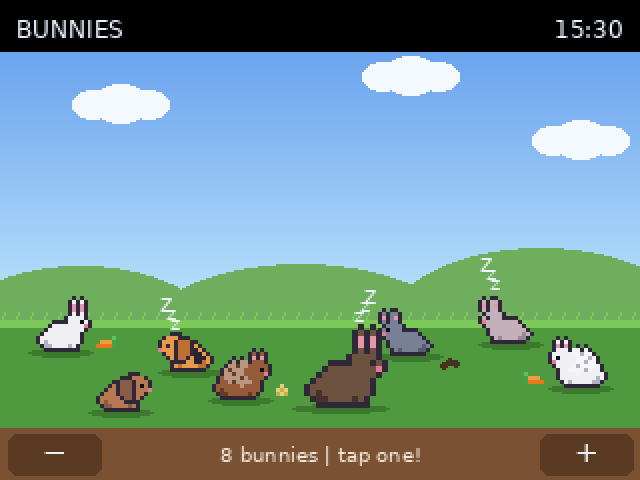
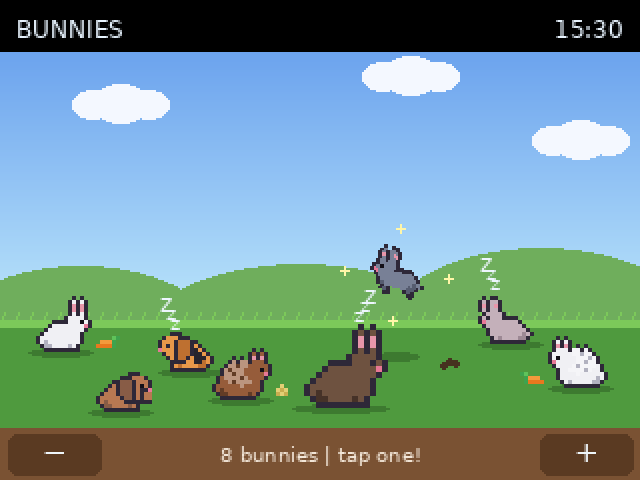
Bunny saver: grooming and binky animations
Grooming: a front paw raised to the face, alternating between under the
chin and rubbing over the nose with the eyes shut. Binky: a high leap
that tilts, twists round at the top and lands nose-down, with sparkles;
half the time the bunny lands facing the other way.

Claude-Session: https://claude.ai/code/session_01XeYQ8PF2srL9M1PCKTNy7Z

Changed region(s): [[0.5625, 0.5, 0.6875, 0.75], [0.6875, 0.5625, 0.7188, 0.5938], [0.2188, 0.8125, 0.25, 0.8438]]

diff --git a/panel_app.py b/panel_app.py
@@ -961,6 +961,27 @@ def eating_pose(rows):
 def sleeping_pose(rows):
     """Eyes closed (a dark line)."""
     return [r.replace('e', 'o') for r in rows]
+
+
+def grooming_pose(rows, raised=False):
+    """A front paw lifted to the face: under the chin, or (raised) rubbing over the nose with
+    the eyes shut. The paw gets its own outline so it shows against the fur."""
+    grid = [list(r) for r in rows]
+    ny = next(i for i, r in enumerate(rows) if 'n' in r)
+    nx = rows[ny].index('n')
+    py = ny if raised else ny + 1
+    paw = {(py, nx-1), (py, nx), (py+1, nx-1), (py+1, nx)}
+    for y in range(py-1, py+3):
+        for x in range(nx-2, nx+2):
+            inside = 0 <= y < len(grid) and 0 <= x < len(grid[0])
+            if inside and (y, x) not in paw and (y, x) != (ny, nx) and grid[y][x] in '.wgmf':
+                grid[y][x] = 'o'
+    for y, x in paw:
+        grid[y][x] = 'w'
+    if raised:
+        grid = [['o' if k == 'e' else k for k in r] for r in grid]
+    return [''.join(r) for r in grid]
+
 # Breeds: (shape, scale, weight, coats). Flemish giants are drawn 1.5x and come in the
 # solid colours the breed is known for.
 BUNNY_BREEDS = {
@@ -993,10 +1014,11 @@ def bunny_look(shape='standard', coat='white', scale=2):
 
 
 def bunny_poses(shape='standard', coat='white', scale=2):
-    """{'sit', 'hop' (list), 'eat', 'sleep'} frames for one breed/coat, trimmed of shared
-    empty rows on top so the tap target hugs the visible bunny."""
+    """{'sit', 'hop' (list), 'eat', 'sleep', 'groom', 'groom2'} frames for one breed/coat,
+    trimmed of shared empty rows on top so the tap target hugs the visible bunny."""
     sit, hop = BUNNY_SHAPES[shape]
-    templates = {'sit': sit, 'hop': hop, 'eat': eating_pose(sit), 'sleep': sleeping_pose(sit)}
+    templates = {'sit': sit, 'hop': hop, 'eat': eating_pose(sit), 'sleep': sleeping_pose(sit),
+                 'groom': grooming_pose(sit), 'groom2': grooming_pose(sit, raised=True)}
     frames = {name: pixel_sprite(rows, scale, coat) for name, rows in templates.items()}
     top = min(f.getbbox()[1] for f in frames.values())
     frames = {name: f.crop((0, top, f.width, f.height)) for name, f in frames.items()}
@@ -1130,7 +1152,8 @@ class Bunny:
         self.food = None  # 'carrot' or 'hay' while eating.
 
     ACTIVITIES = (  # (name, chance each time a rest ends, duration range in seconds)
-        ('eat', .10, (4., 8.)), ('sleep', .05, (7., 15.)), ('poop', .04, (.8, .8)))
+        ('eat', .10, (4., 8.)), ('sleep', .05, (7., 15.)), ('poop', .04, (.8, .8)),
+        ('groom', .07, (3., 6.)), ('binky', .05, (.9, .9)))
 
     def jump(self, now, big=False):
         self.activity = self.food = None  # A tap wakes a sleeper / interrupts a snack.
@@ -1142,7 +1165,7 @@ class Bunny:
             self.heart_until = now + 1.2
 
     def start_activity(self, now):
-        """Maybe begin eating, sleeping or a quick poop instead of the next hop."""
+        """Maybe eat, sleep, poop, groom or binky instead of the next hop."""
         roll = self.rng.random()
         for name, chance, (shortest, longest) in self.ACTIVITIES:
             if roll < chance:
@@ -1157,8 +1180,13 @@ class Bunny:
         """Move/animate; returns 'poop' once when droppings should appear."""
         if self.activity is not None:
             if now >= self.activity_until:
+                if self.activity == 'binky' and self.rng.random() < .5:
+                    self.direction *= -1  # Lands facing the other way half the time.
                 self.activity = self.food = None
                 self.rest_until = now + self.rng.uniform(.3, 1.)
+            elif self.activity == 'binky':  # A short leap forward while twisting.
+                self.x += self.direction*speed*dt*.8
+                self.wrap()
             return None
         if self.hop_start is not None:
             self.x += self.direction*speed*dt*(.75 if self.breed == 'giant' else 1)
@@ -1172,14 +1200,27 @@ class Bunny:
             if started:
                 return 'poop' if started == 'poop' else None
             self.jump(now)
-        # Wrap just past the edge so nearly every bunny is visible at any moment.
+        self.wrap()
+        return None
+
+    def wrap(self):
+        """Wrap just past the edge so nearly every bunny is visible at any moment."""
         if self.x < -self.half-2:
             self.x, self.ground = W+self.half, bunny_lane(self.rng)
         elif self.x > W+self.half+2:
             self.x, self.ground = -self.half, bunny_lane(self.rng)
-        return None
+
+    def binky_phase(self, now):
+        """0..1 through a binky, or None when not doing one."""
+        if self.activity != 'binky':
+            return None
+        span = max(.1, self.activity_until - self.activity_start)
+        return max(0., min(1., (now - self.activity_start) / span))
 
     def lift(self, now):
+        phase = self.binky_phase(now)
+        if phase is not None:  # A binky leaps well above a normal hop.
+            return 4*28*(1.2 if self.breed == 'giant' else 1)*phase*(1-phase)
         if self.hop_start is None:
             return 0
         phase = min(1, (now-self.hop_start)/self.hop_length)
@@ -1227,10 +1268,10 @@ class BunnySaver(Saver):
 
     def poses_for(self, look):
         if look not in self.looks:
-            if look is None:  # Custom sprite: frame 0 rests (and eats/sleeps), the rest hop.
+            if look is None:  # Custom sprite: frame 0 rests (eats, sleeps, grooms), the rest hop.
                 frames = self.custom
-                right = {'sit': frames[0], 'hop': frames[1:] or frames[:1],
-                         'eat': frames[0], 'sleep': frames[0]}
+                right = {'sit': frames[0], 'hop': frames[1:] or frames[:1], 'eat': frames[0],
+                         'sleep': frames[0], 'groom': frames[0], 'groom2': frames[0]}
             else:
                 right = bunny_poses(*look)
             self.looks[look] = (right, mirrored_poses(right))
@@ -1330,13 +1371,23 @@ class BunnySaver(Saver):
                                          bunny.ground - self.rng.uniform(0, 2), now])
             right, left = self.poses_for(bunny.look)
             poses = right if bunny.direction > 0 else left
-            if bunny.hop_start is not None:
+            binky = bunny.binky_phase(now)
+            if binky is not None:
+                # Twist mid-air: the body tilts up, flicks round (mirrored) at the top, then
+                # tilts down for the landing.
+                twisted = .35 <= binky < .65
+                frame = ((left if bunny.direction > 0 else right) if twisted else poses)['hop'][0]
+                frame = frame.rotate(22*math.cos(binky*math.pi)*bunny.direction, Image.NEAREST,
+                                     expand=True)
+            elif bunny.hop_start is not None:
                 hops = poses['hop']
                 frame = hops[int((now-bunny.hop_start)*10) % len(hops)]
             elif bunny.activity == 'eat':
                 frame = poses['eat'] if int(now*4) % 2 else poses['sit']  # Nibbling.
             elif bunny.activity == 'sleep':
                 frame = poses['sleep']
+            elif bunny.activity == 'groom':  # Paw strokes over the face.
+                frame = poses['groom2'] if int(now*5) % 2 else poses['groom']
             else:
                 frame = poses['sit']
             lift = bunny.lift(now)
@@ -1351,6 +1402,14 @@ class BunnySaver(Saver):
                     zx = bunny.x + bunny.direction*(bunny.half*.4 + phase*8)
                     zy = bunny.ground - frame.height - 4 - phase*16
                     d.text((zx, zy), 'z', font=TINY if phase < .5 else SMALL, fill='#eef6ff', anchor='mm')
+            elif binky is not None and .15 < binky < .85:
+                top = bunny.ground - frame.height - lift
+                for k in range(4):  # Sparkles of joy around the leap.
+                    angle = k*math.pi/2 + now*5
+                    sx = bunny.x + math.cos(angle)*(frame.width*.6 + 3)
+                    sy = top + frame.height/2 + math.sin(angle)*(frame.height*.6 + 3)
+                    d.line((sx-2, sy, sx+2, sy), fill='#fff6a8')
+                    d.line((sx, sy-2, sx, sy+2), fill='#fff6a8')
             if now < bunny.heart_until:
                 hx, hy = bunny.x, bunny.ground-frame.height-lift-8-(1.2-(bunny.heart_until-now))*12
                 d.text((hx, hy), '♥', font=FONT, fill='#ff5a7a', anchor='mm')

diff --git a/tests/test_panel_app.py b/tests/test_panel_app.py
@@ -810,6 +810,10 @@ class BunnyLifeTest(unittest.TestCase):
             poses = app.bunny_poses(shape, 'castor')
             self.assertNotEqual(poses['eat'].tobytes(), poses['sit'].tobytes(), shape)
             self.assertNotEqual(poses['sleep'].tobytes(), poses['sit'].tobytes(), shape)
+            for groom in ('groom', 'groom2'):  # The paw shows in both grooming frames.
+                self.assertNotEqual(poses[groom].tobytes(), poses['sit'].tobytes(), shape)
+                self.assertEqual(poses[groom].size, poses['sit'].size)
+            self.assertNotEqual(poses['groom'].tobytes(), poses['groom2'].tobytes(), shape)
             self.assertEqual(poses['eat'].size, poses['sit'].size)
         for breed in ('lionhead', 'rex'):
             self.assertIn(breed, app.BUNNY_BREEDS)
@@ -829,7 +833,7 @@ class BunnyLifeTest(unittest.TestCase):
                     seen.add(bunny.activity)
                     if bunny.activity == 'eat':
                         self.assertIn(bunny.food, ('carrot', 'hay'))
-        self.assertEqual(seen, {'eat', 'sleep', 'poop'})
+        self.assertEqual(seen, {'eat', 'sleep', 'poop', 'groom', 'binky'})
         self.assertTrue(saver.pellets)
         saver.render(200, datetime.now(), ())
         self.assertFalse(any(200 - born >= 45 for _, _, born in saver.pellets))  # Faded away.
@@ -843,6 +847,24 @@ class BunnyLifeTest(unittest.TestCase):
         self.assertIsNone(bunny.activity)
         self.assertIsNotNone(bunny.hop_start)
 
+    def test_binky_leaps_twists_and_can_be_tapped(self):
+        saver = app.BunnySaver({**app.DEFAULT_OPTIONS, 'bunny_count': 1}, lambda n: '', seed=3)
+        bunny = saver.bunnies[0]
+        bunny.x, bunny.hop_start = 160, None
+        bunny.activity, bunny.activity_start, bunny.activity_until = 'binky', 10, 10.9
+        self.assertGreater(bunny.lift(10.45), 25)  # Higher than an ordinary hop.
+        self.assertEqual(bunny.lift(10), 0)
+        start = bunny.x
+        frames = [saver.render(10 + k*.1, datetime.now(), ())[0] for k in range(1, 9)]
+        self.assertNotEqual(bunny.x, start)  # Leaps forward.
+        self.assertEqual(len({f.tobytes() for f in frames}), len(frames))
+        left, top, right, bottom = saver.bunny_box(bunny, 10.45)
+        self.assertLess(top, bunny.ground - 40)
+        self.assertTrue(saver.tap((left+right)/2, (top+bottom)/2, 10.45))
+        self.assertIsNone(bunny.activity)
+        saver.render(11.5, datetime.now(), ())
+        self.assertNotEqual(bunny.activity, 'binky')
+
     def test_food_and_custom_sprite_activities_render(self):
         with tempfile.TemporaryDirectory() as folder:
             sprites = Path(folder) / 'sprites'
@@ -853,7 +875,7 @@ class BunnyLifeTest(unittest.TestCase):
             saver = app.BunnySaver({**app.DEFAULT_OPTIONS, 'bunny_count': 3}, lambda n: '',
                                    frames=custom, seed=5)
             for bunny, (activity, food) in zip(saver.bunnies, (('eat', 'carrot'), ('eat', 'hay'),
-                                                               ('sleep', None))):
+                                                               ('groom', None))):
                 bunny.activity, bunny.food, bunny.hop_start = activity, food, None
                 bunny.activity_start, bunny.activity_until = 0, 10
             self.assertEqual(saver.render(2, datetime.now(), ())[0].size, (320, 240))

diff --git a/tools/render_previews.py b/tools/render_previews.py
@@ -308,23 +308,26 @@ def bunny_breeds():
 
 
 def bunny_life():
-    """A staged moment: snacking on carrots and hay, napping, and the aftermath."""
+    """A staged moment: snacking on carrots and hay, napping, grooming, a binky and the
+    aftermath."""
     from datetime import datetime
     saver = app.BunnySaver({**app.DEFAULT_OPTIONS, 'bunny_count': 8}, lambda n: '', seed=2)
     cast = [(('standard', 'white', 2), 'eat', 'carrot', 1, 30, 176),
             (('lop', 'harlequin', 2), 'sleep', None, -1, 95, 186),
             (('lionhead', 'castor', 2), 'eat', 'hay', 1, 120, 200),
-            (('rex', 'blue', 2), None, None, -1, 205, 178),
+            (('rex', 'blue', 2), 'binky', None, -1, 205, 178),
             (('standard', 'sable', 3), 'sleep', None, 1, 170, 204),
             (('lionhead', 'white', 2), 'eat', 'carrot', -1, 290, 194),
             (('rex', 'lilac', 2), 'sleep', None, -1, 255, 172),
-            (('lop', 'cinnamon', 2), None, None, 1, 60, 206)]
+            (('lop', 'cinnamon', 2), 'groom', None, 1, 60, 206)]
     for bunny, (look, activity, food, facing, x, ground) in zip(saver.bunnies, cast):
         bunny.look, bunny.breed = look, 'giant' if look[2] == 3 else look[0]
         bunny.half = saver.poses_for(look)[0]['sit'].width // 2
         bunny.x, bunny.ground, bunny.direction, bunny.hop_start = x, ground, facing, None
         bunny.activity, bunny.food = activity, food
         bunny.activity_start, bunny.activity_until, bunny.rest_until = 0, 12, 99
+        if activity == 'binky':  # Caught on the way up, body tilted into the leap.
+            bunny.activity_start, bunny.activity_until = 3.83, 4.73
     saver.pellets = [[225, 181, 3], [228, 182, 3], [222, 183, 3]]
     saver.last = 3.9
     image = saver.render(4.1, datetime(2026, 10, 10, 15, 30), ())[0]

diff --git a/docs/APPS-AND-SAVERS.md b/docs/APPS-AND-SAVERS.md
@@ -75,8 +75,10 @@ Pixel bunnies hop across a grassy field under drifting clouds. Each bunny rests,
 - **Snacking:** it lowers its head and nibbles a **carrot** or a tuft of **hay** for 4–8 seconds. The carrot is eaten from the tip; the hay gets smaller as it goes.
 - **Napping:** it closes its eyes for 7–15 seconds while little **z**'s drift up.
 - **Pooping:** it leaves one to three droppings behind. They sink into the grass and disappear after about 45 seconds, with at most 40 on screen.
+- **Grooming:** it sits up and rubs a front paw over its face for 3–6 seconds, closing its eyes on each stroke.
+- **Binky:** the happy rabbit leap. It springs about three times higher than a normal hop, tilts into the jump, twists its body round at the top, and lands nose-down with sparkles around it. Half the time it lands facing the other way.
 
-Tapping a bunny still makes it jump with a heart, and that wakes a sleeper or interrupts a snack.
+Tapping a bunny still makes it jump with a heart, and that wakes a sleeper or interrupts a snack, a grooming session or a binky. A bunny in mid-binky can be tapped where it is in the air.
 
 - **Shape:** the sitting pose is rounder and more compact than the first version, which had a long, flat torso.
 
